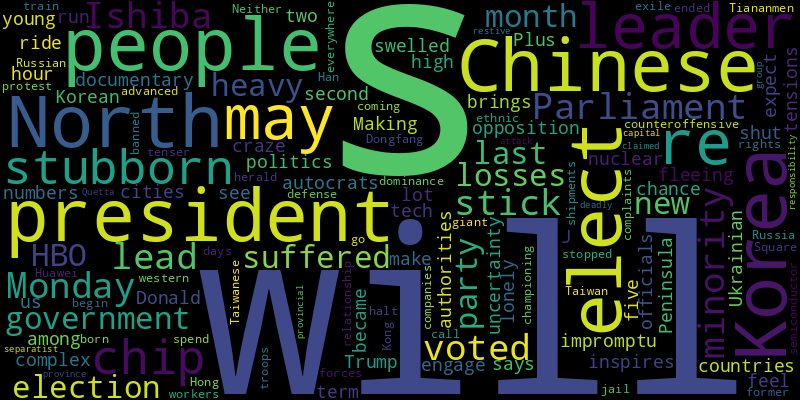
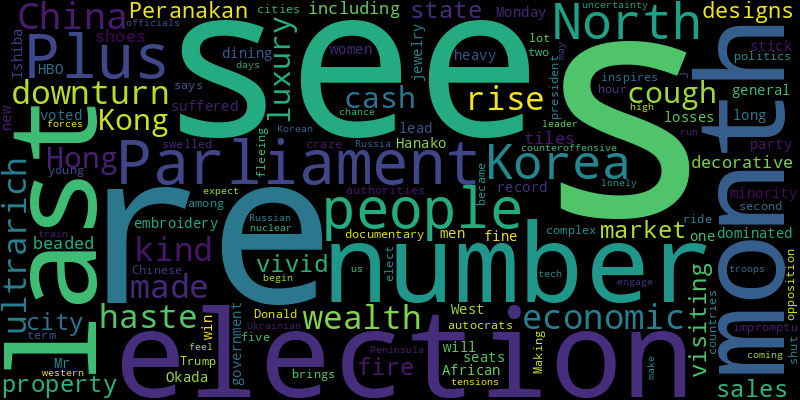
chore(bot): 🟩 auto commit

diff --git a/README.md b/README.md
@@ -2,41 +2,41 @@
 Auto RSS New York Times and Generate Word Cloud
 
 ## New York Times Global News
+* The move comes just before a Biden administration deadline for Israel to deliver more aid to the enclave or risk a cutoff of military supplies.
+* A day after the prime minister of Haiti was fired, the airport in Port-au-Prince was closed because of the attack on the aircraft. A JetBlue plane was also struck.
+* An independent report last week said that Justin Welby, the archbishop of Canterbury, took insufficient action after learning of alleged abuse decades ago at Christian summer camps.
+* Some in Iran’s new, more moderate government think the result of the presidential election provides an opportunity to make a lasting deal with the United States.
+* The widespread orders across southern Lebanon came amid what appeared to be intensifying efforts to reach a cease-fire.
+* Hundreds of thousands of Syrians who escaped civil war at home over the past decade have now fled the conflict in Lebanon, seeking safety in their own shattered country.
+* Leaders from across the Arab and Muslim world were in Riyadh for a meeting officially convened to discuss the fighting in Gaza and Lebanon.
+* Benjamin Netanyahu, the Israeli prime minister, is on trial for bribery and fraud. Now he wants to delay giving testimony.
+* Making the impromptu five-hour ride between two Chinese cities became a craze among young people. But as their numbers swelled, the authorities shut it down.
 * Antisemitic assaults on visiting Israeli soccer fans, and incendiary chants and attacks by some Israelis: Here’s what we know so far about the violence in Amsterdam last week.
-* The president-elect’s call for Taiwan to spend more on its own defense and his complaints about its semiconductor dominance may herald a tenser relationship.
-* The kingdom, which has been accused of trying to “sportswash” its human rights record, hosted the WTA Finals, part of its unstoppable advance into the world of sports.
-* Internal political squabbles — and the fallout from a global backlash to inflation, immigration and ruling elites — are hobbling Germany and France.
-* The strike hit a house in the city of Jabaliya, which has repeatedly come under attack as the Israeli military has pressed an offensive in northern Gaza.
-* The Palestinian leader Mahmoud Abbas has met with Tiffany Trump’s father-in-law and written conciliatory letters to the president-elect, a strong supporter of Israel.
-* The strike in the Jbeil district of Lebanon came amid an apparent diplomatic push for a cease-fire between Israel and Hezbollah.
-* Officials said more than 30 drones had been intercepted over suburban areas of the Russian capital in what was the biggest such attack since the invasion of Ukraine in 2022.
-* Neither jail nor exile to Hong Kong has stopped Han Dongfang, a former Tiananmen Square protest leader, from championing workers’ rights. “If you’re born stubborn, you go everywhere stubborn.”
-* Ukrainian officials expect a counteroffensive in western Russia to begin in the coming days as North Korea’s troops train with Russian forces.
 
 ![Global](./global.png)
 ## New York Times United States News
-* A man with autism, his devoted mother and a seemingly endless race. A story of resilience and love.
-* Nearly eight years after the first challenges to his immigration policies, Donald Trump is returning to the White House promising a more aggressive crackdown.
-* The agency said it was investigating the incident in the aftermath of the Category 3 hurricane that hit Florida in October.
-* After the Mountain fire ballooned to more than 20,000 acres in less than 24 hours, improving weather conditions helped crews contain more of the blaze on Saturday.
+* Nine of the 16 races that will determine which party controls the House of Representatives are in California. No state takes longer to tally votes.
 * Jeremiah P. Mahoney had been missing in action since 1945. His remains will be interred in Arlington National Cemetery in 2025.
-* From its founding nearly a century ago, LULAC encouraged Hispanic people to embrace American identity even as it fought discrimination. The 2024 election result presents a dilemma on both fronts.
-* Mr. Homan, a senior immigration official in the last Trump administration, has said that workplace raids would restart under the new government.
-* The judge asked defense and prosecution lawyers to settle on a date for the accused mastermind of the terrorist attacks to plead guilty.
-* The shooting, which wounded 12 people, happened early on Sunday as crowds gathered at the historically Black school to celebrate the final day of its 100th homecoming week.
-* Senators Rick Scott, John Thune and John Cornyn quickly responded to President-elect Donald J. Trump’s demand on social media, the latest example of his influence over Republican lawmakers.
+* A man with autism, his devoted mother and a seemingly endless race. A story of resilience and love.
+* Cleo Fields, a longtime Baton Rouge politician, won more than 50 percent of the vote in an open primary, negating the need for a runoff.
+* Kamala Harris would have been the first female president in the nation’s nearly 250-year history. But many women chose Donald Trump, despite his history of sexism and his support for the end of Roe v. Wade.
+* Chuck and Cathie Baldwin were caught in a flash flood as they drove to the polls. Known as “proud hippies,” they hosted a musical festival called Chuckstock on their Missouri farm.
+* Kamala Harris’s defeat is personal for Representative Barbara Lee, a California Democrat retiring this year. But after five decades in the fight, she says she is undaunted.
+* The pounding that sailors’ brains take from years of high-speed wave-slamming in the Special Boat Teams can cause symptoms that wreck their careers — and their lives.
+* The Democratic congressman had led Ms. Lake, a former television anchor and bombastic Trump ally, in most polls.
+* Advisers to the president-elect, who already has a strong hold on congressional Republicans, want him to tighten his grip by torpedoing the bid of the establishment front-runner for the post.
 
 ![US](./usnews.png)
 ## New York Times Asia News
-* Parliament voted Monday to stick with Ishiba, who will lead a minority government after his party suffered heavy losses in an election last month.
+* China’s economic downturn has not been kind to the ultrarich who made their wealth on its rise. In their haste to cough up cash, Hong Kong’s luxury property market has had some fire sales.
+* If you’re visiting the city-state, here’s where you can see some of the most vivid Peranakan designs, including decorative tiles, beaded shoes, embroidery and jewelry.
+* Hanako Okada was one of 73 women to win seats at the general election last month, a record number in a Parliament long dominated by men.
+* Plus, West African fine dining.
+* Parliament voted Monday to stick with Mr. Ishiba, who will lead a minority government after his party suffered heavy losses in an election last month.
 * A new HBO documentary about opposition to autocrats says a lot about the complex politics the president-elect inspires for people fleeing countries.
 * Making the impromptu five-hour ride between two Chinese cities became a craze among young people. But as their numbers swelled, the authorities shut it down.
 * Donald J. Trump’s second term brings uncertainty to the Korean Peninsula as nuclear tensions run high. North Korea’s leader may see a chance to re-engage.
 * Plus, does tech make us feel lonely?
 * Ukrainian officials expect a counteroffensive in western Russia to begin in the coming days as North Korea’s troops train with Russian forces.
-* Neither jail nor exile to Hong Kong has stopped Han Dongfang, a former Tiananmen Square protest leader, from championing workers’ rights. “If you’re born stubborn, you go everywhere stubborn.”
-* The president-elect’s call for Taiwan to spend more on its own defense and his complaints about its semiconductor dominance may herald a tenser relationship.
-* The Taiwanese chip giant will halt shipments to Chinese companies after some of its most advanced chips ended up with Huawei.
-* A banned ethnic separatist group in a restive province claimed responsibility for the deadly attack in Quetta, the provincial capital.
 
 ![Asian](./asian.png)

diff --git a/archive/2024-11-11.md b/archive/2024-11-11.md
@@ -1,0 +1,42 @@
+# NewsArchive
+Auto RSS New York Times and Generate Word Cloud
+
+## New York Times Global News
+* Antisemitic assaults on visiting Israeli soccer fans, and incendiary chants and attacks by some Israelis: Here’s what we know so far about the violence in Amsterdam last week.
+* The president-elect’s call for Taiwan to spend more on its own defense and his complaints about its semiconductor dominance may herald a tenser relationship.
+* The kingdom, which has been accused of trying to “sportswash” its human rights record, hosted the WTA Finals, part of its unstoppable advance into the world of sports.
+* Internal political squabbles — and the fallout from a global backlash to inflation, immigration and ruling elites — are hobbling Germany and France.
+* The strike hit a house in the city of Jabaliya, which has repeatedly come under attack as the Israeli military has pressed an offensive in northern Gaza.
+* The Palestinian leader Mahmoud Abbas has met with Tiffany Trump’s father-in-law and written conciliatory letters to the president-elect, a strong supporter of Israel.
+* The strike in the Jbeil district of Lebanon came amid an apparent diplomatic push for a cease-fire between Israel and Hezbollah.
+* Officials said more than 30 drones had been intercepted over suburban areas of the Russian capital in what was the biggest such attack since the invasion of Ukraine in 2022.
+* Neither jail nor exile to Hong Kong has stopped Han Dongfang, a former Tiananmen Square protest leader, from championing workers’ rights. “If you’re born stubborn, you go everywhere stubborn.”
+* Ukrainian officials expect a counteroffensive in western Russia to begin in the coming days as North Korea’s troops train with Russian forces.
+
+![Global](./global.png)
+## New York Times United States News
+* A man with autism, his devoted mother and a seemingly endless race. A story of resilience and love.
+* Nearly eight years after the first challenges to his immigration policies, Donald Trump is returning to the White House promising a more aggressive crackdown.
+* The agency said it was investigating the incident in the aftermath of the Category 3 hurricane that hit Florida in October.
+* After the Mountain fire ballooned to more than 20,000 acres in less than 24 hours, improving weather conditions helped crews contain more of the blaze on Saturday.
+* Jeremiah P. Mahoney had been missing in action since 1945. His remains will be interred in Arlington National Cemetery in 2025.
+* From its founding nearly a century ago, LULAC encouraged Hispanic people to embrace American identity even as it fought discrimination. The 2024 election result presents a dilemma on both fronts.
+* Mr. Homan, a senior immigration official in the last Trump administration, has said that workplace raids would restart under the new government.
+* The judge asked defense and prosecution lawyers to settle on a date for the accused mastermind of the terrorist attacks to plead guilty.
+* The shooting, which wounded 12 people, happened early on Sunday as crowds gathered at the historically Black school to celebrate the final day of its 100th homecoming week.
+* Senators Rick Scott, John Thune and John Cornyn quickly responded to President-elect Donald J. Trump’s demand on social media, the latest example of his influence over Republican lawmakers.
+
+![US](./usnews.png)
+## New York Times Asia News
+* Parliament voted Monday to stick with Ishiba, who will lead a minority government after his party suffered heavy losses in an election last month.
+* A new HBO documentary about opposition to autocrats says a lot about the complex politics the president-elect inspires for people fleeing countries.
+* Making the impromptu five-hour ride between two Chinese cities became a craze among young people. But as their numbers swelled, the authorities shut it down.
+* Donald J. Trump’s second term brings uncertainty to the Korean Peninsula as nuclear tensions run high. North Korea’s leader may see a chance to re-engage.
+* Plus, does tech make us feel lonely?
+* Ukrainian officials expect a counteroffensive in western Russia to begin in the coming days as North Korea’s troops train with Russian forces.
+* Neither jail nor exile to Hong Kong has stopped Han Dongfang, a former Tiananmen Square protest leader, from championing workers’ rights. “If you’re born stubborn, you go everywhere stubborn.”
+* The president-elect’s call for Taiwan to spend more on its own defense and his complaints about its semiconductor dominance may herald a tenser relationship.
+* The Taiwanese chip giant will halt shipments to Chinese companies after some of its most advanced chips ended up with Huawei.
+* A banned ethnic separatist group in a restive province claimed responsibility for the deadly attack in Quetta, the provincial capital.
+
+![Asian](./asian.png)
